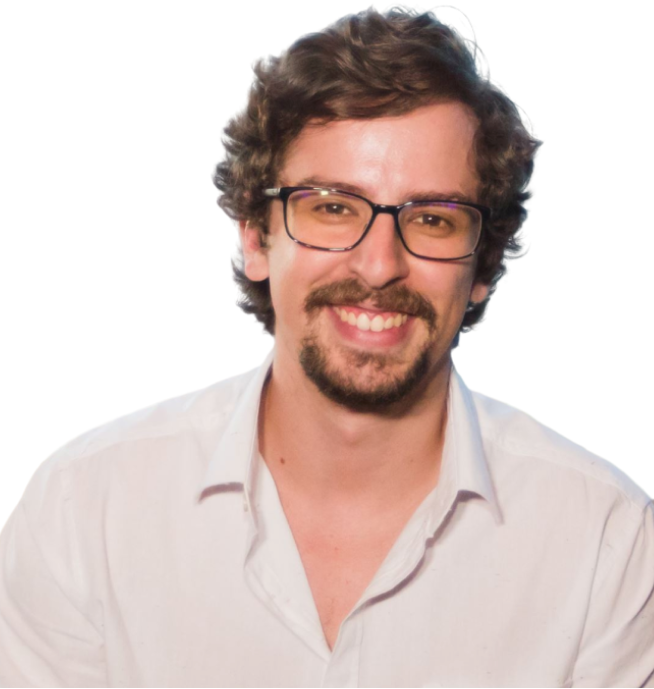
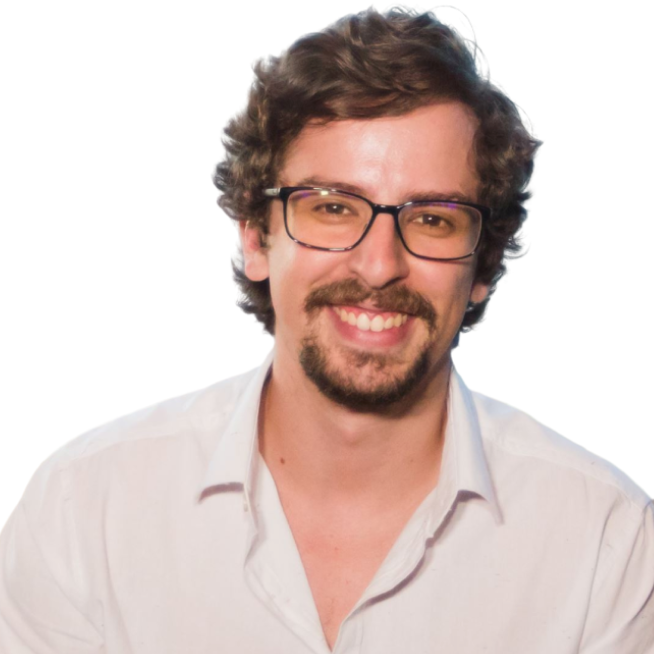
Adicionado mais alguns palestrantes, atualizado grade de palestras e recortado uma imagem para ficar na proporçao correta

diff --git a/week/index.html b/week/index.html
@@ -162,6 +162,50 @@
 
             <div class="row">
               <div class="col-lg-3 col-md-4">
+                  <div class="speaker">
+                    <img src="img/speakers/wiluey_sousa.jpg"
+                      alt="Wiluey Sousa"
+                      class="img-fluid">
+                    <div class="details">
+                      <h3>Wiluey Sousa</h3>
+                      <p>Trilha: Dados</p>
+                      <div class="social">
+                        <!-- <a href="#"
+                          target="_blank"><i class="fa fa-twitter"></i></a>
+                        <a href="#"
+                          target="_blank"><i
+                            class="fa fa-github"></i></a> -->
+                        <a href="https://www.linkedin.com/in/wiluey-sousa-0829bb51/"
+                          target="_blank"><i class="fa fa-linkedin"></i></a>
+                      </div>
+                    </div>
+                  </div>
+                </div>
+
+                <div class="col-lg-3 col-md-4">
+                    <div class="speaker">
+                      <img src="img/speakers/sofia_marshallowitz.jpg"
+                        alt="Sofia Marshallowitz"
+                        class="img-fluid">
+                      <div class="details">
+                        <h3>Sofia Marshallowitz</h3>
+                        <p>Trilha: IA</p>
+                        <div class="social">
+                          <!-- <a href="#"
+                            target="_blank"><i class="fa fa-twitter"></i></a> -->
+                          <a href="https://github.com/marshallowitz"
+                            target="_blank"><i
+                              class="fa fa-github"></i></a>
+                          <a href="https://www.linkedin.com/in/marshallowitz/"
+                            target="_blank"><i class="fa fa-linkedin"></i></a>
+                        </div>
+                      </div>
+                    </div>
+                  </div>
+              </div><!-- row -->
+
+            <div class="row">
+              <div class="col-lg-3 col-md-4">
                 <div class="speaker">
                   <img src="img/speakers/giovanni_francischelli.png"
                     alt="Giovanni Francischelli
@@ -191,22 +235,67 @@
                     <h3>Alefe Souza</h3>
                     <p>Trilha: React</p>
                     <div class="social">
+                      <a href="https://twitter.com/alefesouza/"
+                        target="_blank"><i class="fa fa-twitter"></i></a>
                       <a href="https://www.facebook.com/alefesouza"
                         target="_blank"><i class="fa fa-facebook"></i></a>
-                      <!-- <a href="#" target="_blank"><i
+                      <a href="https://github.com/alefesouza" target="_blank"><i
                           class="fa fa-github"></i></a>
-                      <a href="#"
+                      <a href="https://www.linkedin.com/in/alefesouza/"
                         target="_blank"><i class="fa fa-linkedin"></i></a>
-                      <a href="#" target="_blank"><i
-                          class="fa fa-link"></i></a> -->
+                      <a href="https://alefesouza.com.br/" target="_blank"><i
+                          class="fa fa-link"></i></a>
                     </div>
                   </div>
                 </div>
               </div>
+
+              <div class="col-lg-3 col-md-4">
+                <div class="speaker">
+                  <img src="img/speakers/marcos_felipe.jpg" alt="Marcos Felipe"
+                    class="img-fluid">
+                  <div class="details">
+                    <h3>Marcos Felipe</h3>
+                    <p>Trilha: NodeJS</p>
+                    <div class="social">
+                      <a href="https://twitter.com/omarkdev"
+                        target="_blank"><i class="fa fa-twitter"></i></a>
+                      <a href="https://github.com/omarkdev" target="_blank"><i
+                          class="fa fa-github"></i></a>
+                      <a href="https://www.linkedin.com/in/omarkdev/"
+                        target="_blank"><i class="fa fa-linkedin"></i></a>
+                      <a href="http://omark.dev/" target="_blank"><i
+                          class="fa fa-link"></i></a>
+                    </div>
+                  </div>
+                </div>
+              </div>
+
+              <div class="col-lg-3 col-md-4">
+                <div class="speaker">
+                  <img src="img/speakers/beatriz_milz.jpeg" alt="Beatriz Milz"
+                    class="img-fluid">
+                  <div class="details">
+                    <h3>Beatriz Milz</h3>
+                    <p>Trilha: Dados</p>
+                    <div class="social">
+                      <!-- <a href="https://twitter.com/omarkdev"
+                        target="_blank"><i class="fa fa-twitter"></i></a> -->
+                      <a href="https://github.com/beatrizmilz" target="_blank"><i
+                          class="fa fa-github"></i></a>
+                      <a href="https://www.linkedin.com/in/beatrizmilz/?originalSubdomain=br"
+                        target="_blank"><i class="fa fa-linkedin"></i></a>
+                      <a href="https://beatrizmilz.com/" target="_blank"><i
+                          class="fa fa-link"></i></a>
+                    </div>
+                  </div>
+                </div>
+              </div>
+
             </div><!-- row -->
 
             <div class="row">
-
+            
               <div class="col-lg-3 col-md-4">
                 <div class="speaker">
                   <img src="img/speakers/lucas_teles.jpeg" alt="Lucas Teles"
@@ -1306,11 +1395,19 @@
                 <div class="row schedule-item">
                   <div class="col-md-2"><time>20h30 - 21h00</time></div>
                   <div class="col-md-10">
-                    <!-- <div class="speaker">
-                                        <img src="img/speakers/1.jpg" alt="Brenden Legros">
-                                      </div> -->
-                    <h4>Palestra 4 <span>a definir</span></h4>
-                    <!-- <p>Facere provident incidunt quos voluptas.</p> -->
+                    <div class="speaker">
+                      <img src="img/speakers/sofia_marshallowitz.jpg" alt="Sofia Marshallowitz">
+                    </div>
+                    <h4>IA pode ser criativa? <span>Sofia Marshallowitz</span></h4>
+                    <p>Criatividade é uma habilidade que normalmente consideramos exclusivamente humana. 
+                      Por toda a história, fomos os seres mais criativos do planeta Terra. Temos ritos, 
+                      temos mitologias, contamos histórias e inventamos soluções para nossos problemas. 
+                      Criamos músicas que nos fazem cair de amores e livros que podem nos levar à melancolia extrema (como fez Goethe). 
+                      Mas, essa habilidade é exclusivamente humana ou máquinas também possuem sua capacidade criatividade? 
+                      A apresentação pretende trazer algumas reflexões para o cotidiano, especialmente na interação 
+                      homem-máquina. Não será realizado nenhum tipo de demonstração de código ou método. 
+                      O propósito é analisar o cenário e levar o desenvolvedor/ engenheiro de machine learning/ designer 
+                      a refletir sobre a sua relação e a relação das outras pessoas com o sistema criado.</p>
                   </div>
                 </div>
 
@@ -1459,11 +1556,17 @@
                 <div class="row schedule-item">
                   <div class="col-md-2"><time>19h50 - 20h20</time></div>
                   <div class="col-md-10">
-                    <!-- <div class="speaker">
-                              <img src="img/speakers/1.jpg" alt="Brenden Legros">
-                            </div> -->
-                    <h4>Palestra5 <span>a definir</span></h4>
-                    <!-- <p>Facere provident incidunt quos voluptas.</p> -->
+                    <div class="speaker">
+                      <img src="img/speakers/marcos_felipe.jpg" alt="Marcos Felipe">
+                    </div>
+                    <h4>Crawlers - Coletando e transformando dados da web <span>Marcos Felipe</span></h4>
+                    <p>Vivemos em um tempo onde a informação é a chave principal para tudo, 
+                      queremos sempre consumir informação, criar aplicações para utilizar as 
+                      informações e prover mais informações mas o que fazer quando se depararmos 
+                      com a situação em que precisamos desenvolver algo dependente de uma informação que 
+                      não está legível para ser utilizada? Em outras palavras mais simples, como consumir 
+                      uma informação de um serviço que não tem API? É nesse momento em que entra o mundo de Crawlers. 
+                      Essa palestra tem a intenção de mostrar as abordagens necessárias para se criar crawlers e como criá-los.</p>
                   </div>
                 </div>
 
@@ -1761,11 +1864,15 @@
                 <div class="row schedule-item">
                   <div class="col-md-2"><time>18h20 - 18h50</time></div>
                   <div class="col-md-10">
-                    <!-- <div class="speaker">
-                          <img src="img/speakers/1.jpg" alt="Brenden Legros">
-                        </div> -->
-                    <h4>Palestra3 <span>a definir</span></h4>
-                    <!-- <p>Facere provident incidunt quos voluptas.</p> -->
+                    <div class="speaker">
+                      <img src="img/speakers/wiluey_sousa.jpg" alt="Wiluey Sousa">
+                    </div>
+                    <h4>Criando um Ambiente de Alta Disponibilidade do SQL Server no Linux <span>Wiluey Sousa</span></h4>
+                    <p>Você já deve ter ouvido falar que podemos configurar um SQL Failover Cluster no Linux, certo?
+                        Então nessa palestra vamos abordar as diferenças entre o Failover Cluster do Windows Server (WSFC) e o Linux.
+                        Conheceremos o Pacemaker e o Corosync Cluster Engine, ferramentas open source de gerenciamento de recursos de alta disponibilidade usado em Clusters Linux.
+                        Também faremos uma análise na arquitetura desse tipo de solução e ao final fechamos com uma demonstração de um Failover Group rodando no Linux.
+                        Aproveite!.</p>
                   </div>
                 </div>
 
@@ -1809,11 +1916,14 @@
                 <div class="row schedule-item">
                   <div class="col-md-2"><time>20h20 - 20h50</time></div>
                   <div class="col-md-10">
-                    <!-- <div class="speaker">
-                                <img src="img/speakers/1.jpg" alt="Brenden Legros">
-                              </div> -->
-                    <h4>Palestra6 <span>a definir</span></h4>
-                    <!-- <p>Facere provident incidunt quos voluptas.</p> -->
+                    <div class="speaker">
+                      <img src="img/speakers/beatriz_milz.jpeg" alt="Beatriz Milz">
+                    </div>
+                    <h4>Dashboards, gráficos, mapas: Possibilidades de visualização de dados com R <span>Beatriz Milz</span></h4>
+                    <p>O R é uma linguagem de programação muito utilizada para análise de dados. 
+                      Existem diversas bibliotecas utilizadas para visualização de dados, como dashboards, apresentações, 
+                      relatórios dinâmicos, gráficos e mapas interativos. O objetivo desta palestra é 
+                       apresentar algumas possibilidades de visualização de dados com R.</p>
                   </div>
                 </div>
 
